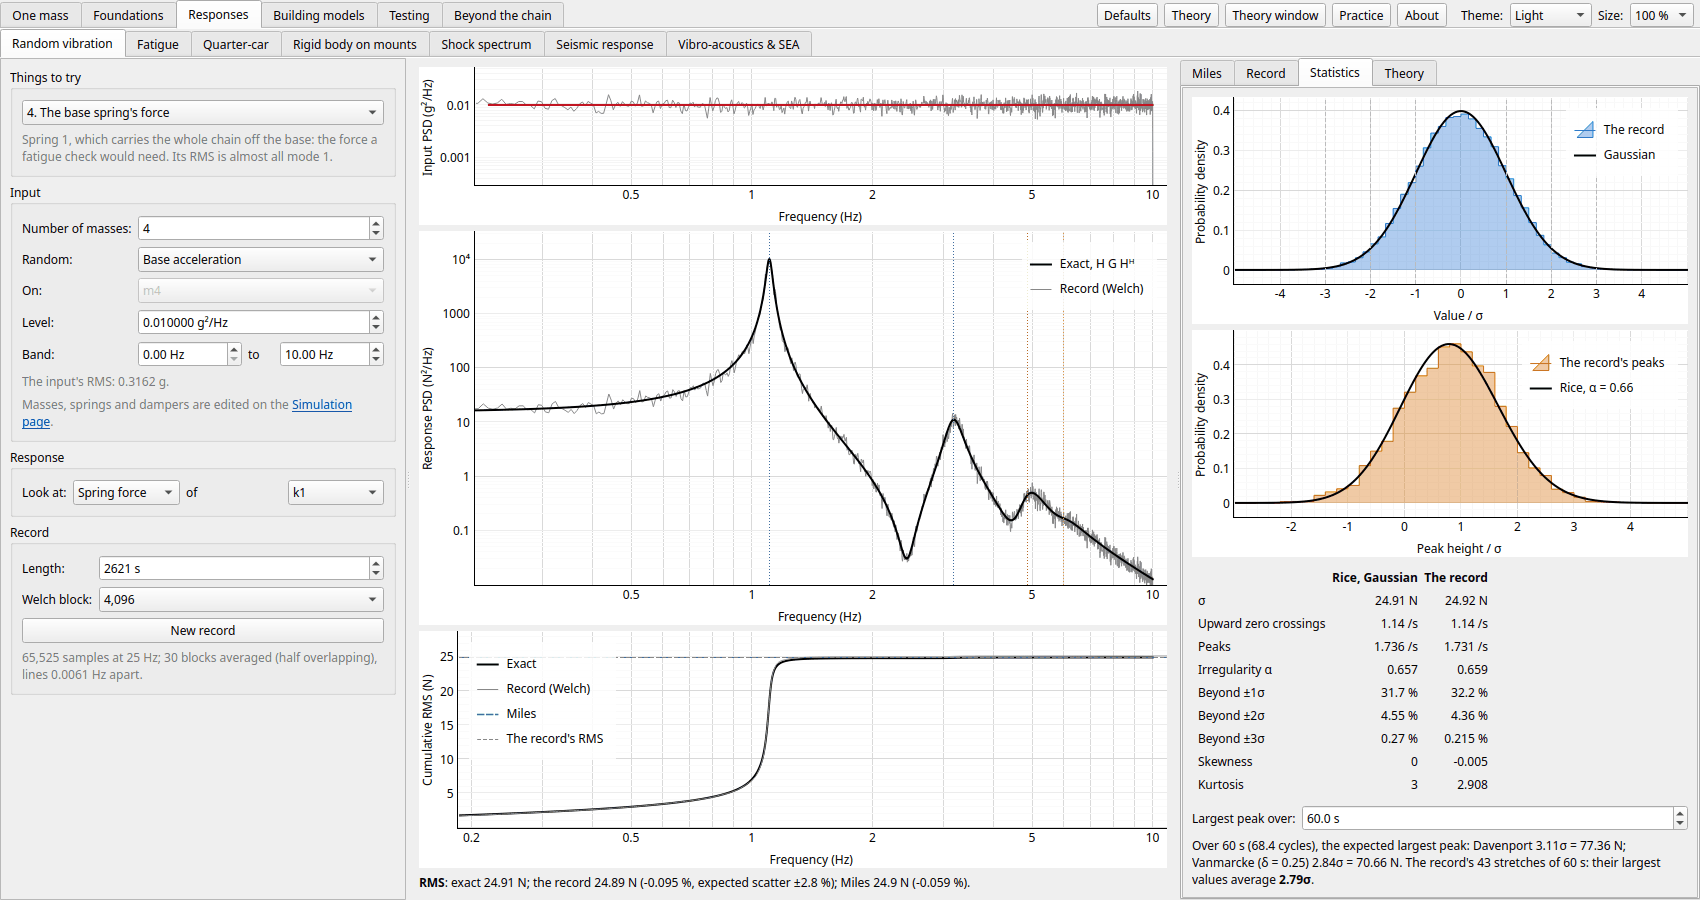
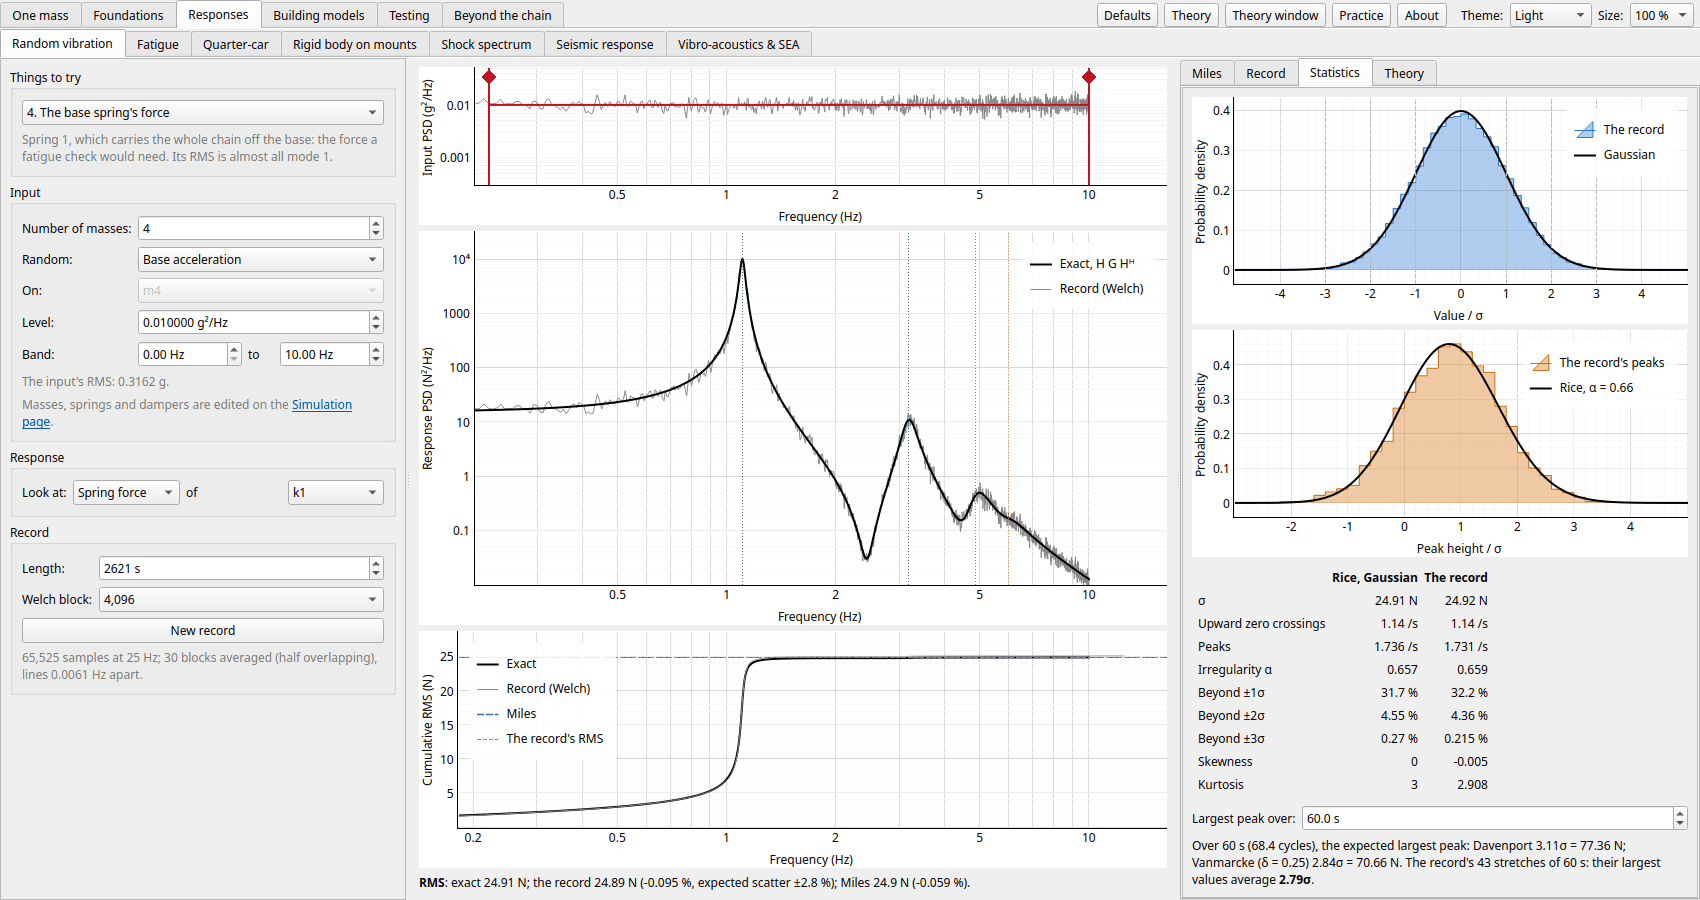
Drag the speed and the band: Torsional, Random vibration and Diagnostics (#316 B1)
- Torsional: the running speed is a DragLine on the interference diagram, on its linear or log
  scales (DragLine.set_scale). While it's held the band and the response follow; the diagram
  is redrawn (its criticals inside the band in red) when it's let go.
- Random vibration: the band's edges are DragLines on the Input PSD; the boxes and the band's
  line follow, and the record is made again on release (a redraw meanwhile waits). The plots
  run on 1.5x past the band's top, so the edge can be dragged out.
- Diagnostics: the shaft speed is a line on the run-up's maps and the order tracks; the record,
  spectrum and readout follow as it's dragged (~40 ms a step).

tests/test_drag.py's helper lifts pyqtgraph's mouse rate limit while it drags: its moves came
at once and were dropped, so a drag counted only if its first step cleared 5 px (it didn't on
a log axis). README shots of the two pages retaken.

diff --git a/tests/test_drag.py b/tests/test_drag.py
@@ -39,11 +39,20 @@ def drag(view: QtWidgets.QGraphicsView, start: QtCore.QPointF, end: QtCore.QPoin
         QtWidgets.QApplication.sendEvent(vp, ev)
         app.processEvents()
 
-    send(QtCore.QEvent.Type.MouseButtonPress, start, Left, Left)
-    for k in range(1, steps + 1):
-        f = k / steps
-        send(QtCore.QEvent.Type.MouseMove, start + (end - start) * f, NoButton, Left)
-    send(QtCore.QEvent.Type.MouseButtonRelease, end, Left, NoButton)
+    import pyqtgraph as pg
+
+    # pyqtgraph drops moves closer together than its rate limit: these come at once, and only the first (if it
+    # cleared the 5 px a drag needs) and the release would count. A hand's moves are spread out: let all through.
+    limit = pg.getConfigOption("mouseRateLimit")
+    pg.setConfigOption("mouseRateLimit", 0)
+    try:
+        send(QtCore.QEvent.Type.MouseButtonPress, start, Left, Left)
+        for k in range(1, steps + 1):
+            f = k / steps
+            send(QtCore.QEvent.Type.MouseMove, start + (end - start) * f, NoButton, Left)
+        send(QtCore.QEvent.Type.MouseButtonRelease, end, Left, NoButton)
+    finally:
+        pg.setConfigOption("mouseRateLimit", limit)
 
 
 def scene_at(plot, x: float, y: float) -> QtCore.QPointF:
@@ -320,3 +329,71 @@ def test_drawing_the_energy_methods_trial_shape_keeps_rayleigh_above_f1(main_win
     assert p.shape.currentText() != DRAWN
     p.load_setup({k: v for k, v in vars(state).items() if k not in ("name", "note")})
     assert p.shape.currentText() == DRAWN and np.allclose(p.drawn, state.drawn)
+
+
+@pytest.mark.parametrize("log", [False, True])
+def test_dragging_the_torsional_speed_line_sets_the_running_speed(main_window, app, log):
+    p = main_window.torsional_page
+    _show(main_window, p, app)
+    p.log_scales.setChecked(log)
+    app.processEvents()
+    line = p.speed_line
+    assert line.data_value() == pytest.approx(p.operating.value()) and line.getViewBox() is not None
+    lo, hi = p._interference_band.getRegion()  # the band drawn on the scale just switched to
+    edges = [10**v for v in (lo, hi)] if log else [lo, hi]
+    assert edges == pytest.approx([0.9 * p.operating.value(), 1.1 * p.operating.value()], rel=1e-6)
+    (_, _), (y0, y1) = p.interference.getPlotItem().getViewBox().viewRange()
+    y = 0.5 * (y0 + y1)
+    target = 2000.0
+    end = math.log10(target) if log else target
+    drag(p.interference, scene_at(p.interference, line.value(), y), scene_at(p.interference, end, y), app)
+    assert p.operating.value() == pytest.approx(target, rel=0.02)
+    lo, hi = p._interference_band.getRegion()
+    edges = [10**v for v in (lo, hi)] if log else [lo, hi]
+    assert edges == pytest.approx([0.9 * p.operating.value(), 1.1 * p.operating.value()], rel=1e-6)
+    assert line.getViewBox() is not None and line.data_value() == pytest.approx(p.operating.value())
+
+
+def test_dragging_the_random_band_edges_sets_the_band(main_window, app):
+    p = main_window.random_page
+    _show(main_window, p, app)
+    p.recompute()
+    app.processEvents()
+    lo_line, hi_line = p.band_lines
+    hi0 = p.f_hi.value()
+    assert hi_line.data_value() == pytest.approx(hi0) and hi_line.getViewBox() is not None
+    (_, _), (y0, y1) = p.input_plot.getPlotItem().getViewBox().viewRange()
+    y = 0.5 * (y0 + y1)
+    target = 0.5 * hi0
+    drag(p.input_plot, scene_at(p.input_plot, hi_line.value(), y), scene_at(p.input_plot, math.log10(target), y), app)
+    assert p.f_hi.value() == pytest.approx(target, rel=0.03)
+    p.worker.wait()
+    app.processEvents()
+    assert p.record.input.f_hi == p.f_hi.value()  # made again with the new band, once let go
+    assert hi_line.getViewBox() is not None and hi_line.data_value() == pytest.approx(p.f_hi.value())
+    # The bottom edge: the band from 0 starts where the plot does; dragged in, it starts there.
+    lo = 0.3 * p.f_hi.value()
+    drag(p.input_plot, scene_at(p.input_plot, lo_line.value(), y), scene_at(p.input_plot, math.log10(lo), y), app)
+    assert p.f_lo.value() == pytest.approx(lo, rel=0.03) and p.f_lo.value() < p.f_hi.value()
+    p.worker.wait()
+    assert p.record.input.f_lo == p.f_lo.value()
+
+
+@pytest.mark.parametrize("which", [0, 2])  # the frequency map (the Run-up tab) and the order tracks (Orders)
+def test_dragging_the_diagnostics_speed_line_sets_the_shaft_speed(main_window, app, which):
+    from vib_tutorial.gui.diagnostics import TAB_ORDERS, TAB_RUNUP
+
+    p = main_window.diagnostics_page
+    _show(main_window, p, app)
+    p.tabs.setCurrentIndex(TAB_RUNUP if which == 0 else TAB_ORDERS)
+    for _ in range(5):
+        app.processEvents()
+    plot = (p.freq_map, p.order_map_plot, p.orders_plot)[which]
+    line = p.speed_lines[which]
+    assert line.data_value() == pytest.approx(p.rpm.value())
+    (_, _), (y0, y1) = plot.getPlotItem().getViewBox().viewRange()
+    y = 0.5 * (y0 + y1)
+    drag(plot, scene_at(plot, line.value(), y), scene_at(plot, 3000.0, y), app)
+    assert p.rpm.value() == pytest.approx(3000.0, rel=0.02)
+    assert p.mesh_lines[0].value() == pytest.approx(p.machine.mesh_hz)  # the record at the new speed
+    assert all(other.data_value() == pytest.approx(p.rpm.value()) for other in p.speed_lines)

diff --git a/src/vib_tutorial/gui/random_vibration.py b/src/vib_tutorial/gui/random_vibration.py
@@ -53,6 +53,7 @@ from ..core.random_vibration import (
 )
 from . import maths, random_figures, weak
 from .axes import log_axes
+from .drag import DragLine
 from .layouts import ColumnScroll, form_layout, form_row, group, plot_height
 from .lesson import TrialCombo
 from .links import load_notes, page_link
@@ -87,6 +88,12 @@ TIPS = {
     "new": "<p>A new record: the same spectrum, other random numbers.</p>",
 }
 INPUT_TIP = "<p>The input's PSD: the level asked for (flat over the band), and the record's input by Welch.</p>"
+BAND_LINE_TIP = (
+    "<p>An edge of the input's band. Drag it to narrow or widen the band: the Band boxes follow, and the record is "
+    "made again when you let go. Drag the top past the modes to see the mass line, or in round one mode to see "
+    "Miles' equation overestimate.</p>"
+)
+BAND_ROOM = 1.5  # the plots run on past the band's top, by this factor, so its edge can be dragged out
 PSD_TIP = (
     "<p>The response's power spectral density: exact, G<sub>y</sub> = H G<sub>u</sub> H<sup>H</sup>, and the "
     "simulated record's by Welch's method. Each mode is a peak; the dotted lines mark them.</p>"
@@ -565,6 +572,14 @@ class RandomVibrationPage(QtWidgets.QWidget):
         self.input_plot.setLogMode(x=True, y=True)
         self.input_plot.setToolTip(INPUT_TIP)
         plot_height(self.input_plot, 110)
+        self.band_lines = (DragLine(BAND_LINE_TIP, log=True), DragLine(BAND_LINE_TIP, log=True))
+        self.band_lines[0].dragged.connect(self._on_lo_dragged)
+        self.band_lines[1].dragged.connect(self._on_hi_dragged)
+        for line in self.band_lines:
+            line.released.connect(self._on_band_released)
+        self._band_curve: pg.PlotDataItem | None = None
+        self._band_shown = (0.0, 0.0)  # where the band's line starts, and its level
+        self._held_redraw = False  # a result came in while an edge was held: drawn when it's let go
         self.psd_plot = _plot("Response PSD", None, "Frequency", "Hz")
         self.psd_plot.setLogMode(x=True, y=True)
         self.psd_plot.setToolTip(PSD_TIP)
@@ -811,6 +826,29 @@ class RandomVibrationPage(QtWidgets.QWidget):
         self._show_controls()
         self._schedule(measure=True)
 
+    def _on_lo_dragged(self, f: float) -> None:
+        self._drag_band(min(f, 0.9 * self.f_hi.value()), self.f_hi.value())
+
+    def _on_hi_dragged(self, f: float) -> None:
+        self._drag_band(self.f_lo.value(), max(f, 1.1 * self.f_lo.value(), self.f_hi.minimum()))
+
+    def _drag_band(self, lo: float, hi: float) -> None:
+        """The boxes and the band's line follow an edge while it's dragged; the record waits for the release (a
+        redraw now would take the line from under the pointer)."""
+        self._loading = True
+        self.f_lo.setValue(lo)
+        self.f_hi.setValue(hi)
+        self._loading = False
+        if self._band_curve is not None:  # from where it's drawn (the view's left end, for a band from 0)
+            start, level = self._band_shown
+            self._band_curve.setData([lo if lo > 0 else start, hi], [level, level])
+
+    def _on_band_released(self, _f: float) -> None:
+        if self._held_redraw:
+            self._held_redraw = False
+            self.redraw()
+        self._on_input()
+
     def _on_output(self, *_args) -> None:
         if self._loading:
             return
@@ -881,10 +919,15 @@ class RandomVibrationPage(QtWidgets.QWidget):
 
     # ------------------------------------------------------------- drawing
     def apply_theme(self) -> None:
+        for line in self.band_lines:
+            line.apply_theme()
         if self.prediction is not None and not self._dirty:  # a new chain while hidden: redrawn when it shows
             self.redraw()
 
     def redraw(self) -> None:
+        if any(line.moving for line in self.band_lines):
+            self._held_redraw = True
+            return
         assert self.record is not None and self.prediction is not None and self.result is not None, (
             "drawn after recompute"
         )
@@ -909,8 +952,12 @@ class RandomVibrationPage(QtWidgets.QWidget):
         p.setLabel("left", f"Input PSD ({PSD_UNITS[inp.kind]})")
         p.plot(fu, np.maximum(gu, 1e-300), pen=pg.mkPen(colors.grey, width=1))
         band = np.array([max(inp.f_lo, lo), inp.f_hi])
-        p.plot(band, np.full(2, inp.level), pen=pg.mkPen(colors.force, width=2))
-        p.setXRange(math.log10(lo), math.log10(hi), padding=0.02)
+        self._band_curve = p.plot(band, np.full(2, inp.level), pen=pg.mkPen(colors.force, width=2))
+        self._band_shown = (float(band[0]), inp.level)
+        for line, edge in zip(self.band_lines, band):
+            line.set_value(float(edge))
+            p.addItem(line)
+        p.setXRange(math.log10(lo), math.log10(BAND_ROOM * hi), padding=0.02)
         p.setYRange(math.log10(inp.level) - 1.5, math.log10(inp.level) + 0.7, padding=0.0)
 
         # the response

diff --git a/src/vib_tutorial/gui/torsional.py b/src/vib_tutorial/gui/torsional.py
@@ -54,6 +54,7 @@ from ..core.torsional_startup import (
     crossings,
 )
 from . import torsional_figures
+from .drag import DragLine
 from .frame_loop import FrameLoop
 from .layouts import ColumnScroll, FlowLayout, form_layout, form_row, group, plot_height
 from .lesson import RunButton, plot
@@ -330,6 +331,11 @@ INTERFERENCE_TIP = (
     "a standard asks to check). Where an order crosses a mode is a torsional critical speed; filled red "
     "inside the band round the running speed.</p>"
 )
+SPEED_LINE_TIP = (
+    "<p>The running speed. Drag it along the diagram to run the train faster or slower: the band of ±10 % "
+    "round it, the Running speed box and the response follow, and an order crossing a mode inside the band "
+    "turns red when you let go.</p>"
+)
 RESPONSE_TIP = (
     "<p>The steady dynamic torque in the chosen link (a mesh: its force times the near gear's base radius), "
     "the amplitude of each order on its own and their sum (the peak when they line up), against the motor's "
@@ -405,6 +411,11 @@ class TorsionalPage(QtWidgets.QWidget):
         self.interference = plot("Frequency", "Hz", "Motor speed", "rpm", log_ready=True)
         self.interference.setToolTip(INTERFERENCE_TIP)
         plot_height(self.interference, 220)
+        self.speed_line = DragLine(SPEED_LINE_TIP, bounds=(1.0, 3600.0))
+        self.speed_line.dragged.connect(self._on_speed_dragged)
+        self.speed_line.released.connect(self._on_speed_released)
+        self._dragging = False
+        self._interference_band: pg.LinearRegionItem | None = None
         self.readout = QtWidgets.QLabel()
         self.readout.setWordWrap(True)
         self.readout.setTextFormat(QtCore.Qt.TextFormat.RichText)
@@ -645,11 +656,24 @@ class TorsionalPage(QtWidgets.QWidget):
         if self._loading:
             return
         self._to_custom()
-        self.redraw()
+        if self._dragging:  # the diagram stays (redrawing it would drop the line from under the pointer)
+            self._place_band()
+            self._draw_response()
+        else:
+            self.redraw()
+
+    def _on_speed_dragged(self, rpm: float) -> None:
+        self._dragging = True
+        self.operating.setValue(rpm)
+
+    def _on_speed_released(self, _rpm: float) -> None:
+        self._dragging = False
+        self.redraw()  # the criticals in the band, red
 
     # ------------------------------------------------------------- start-up
     # ------------------------------------------------------------- drawing
     def apply_theme(self) -> None:
+        self.speed_line.apply_theme()
         self.redraw()
         self.startup_view.apply_theme()
 
@@ -669,6 +693,14 @@ class TorsionalPage(QtWidgets.QWidget):
         for line in band.lines:
             line.setPen(pg.mkPen(None))
         return band
+
+    def _place_band(self) -> None:
+        """The interference diagram's band round the running speed, where it is now."""
+        if self._interference_band is None:
+            return
+        log = self.speed_line.log
+        lo, hi = (math.log10(v) if log else v for v in self._band())
+        self._interference_band.setRegion((lo, hi))
 
     def _draw_interference(self) -> None:
         p = self.interference
@@ -693,18 +725,15 @@ class TorsionalPage(QtWidgets.QWidget):
             doesn't map itself (text, lines)."""
             return (math.log10(x), math.log10(y)) if log else (x, y)
 
-        lo, hi = self._band()
-        band = pg.LinearRegionItem((at(lo, 1)[0], at(hi, 1)[0]), movable=False, brush=pg.mkBrush(*colors.band_shade))
+        band = pg.LinearRegionItem((0.0, 1.0), movable=False, brush=pg.mkBrush(*colors.band_shade))
         for line in band.lines:
             line.setPen(pg.mkPen(None))
         p.addItem(band)
-        p.addItem(
-            pg.InfiniteLine(
-                at(self.operating.value(), 1)[0],
-                angle=90,
-                pen=pg.mkPen(colors.muted, width=1, style=QtCore.Qt.PenStyle.DashLine),
-            )
-        )
+        self._interference_band = band
+        self.speed_line.set_scale(log, (max(1.0, x_lo), top))  # first: the band reads its scale
+        self._place_band()
+        self.speed_line.set_value(self.operating.value())
+        p.addItem(self.speed_line)
         n_sources = len(sources(t))  # order_lines puts them first
         for j, (label, order) in enumerate(lines):
             own = j < n_sources
@@ -750,6 +779,7 @@ class TorsionalPage(QtWidgets.QWidget):
             text = pg.TextItem(f"Mode {j + 1}, {f:.4g} Hz", color=colors.strong, anchor=(0, 1))
             text.setPos(*at(max(x_lo, 1e-9), f))
             p.addItem(text)
+        lo, hi = self._band()
         inside = [c for c in crits if lo <= c.rpm <= hi]
         outside = [c for c in crits if not lo <= c.rpm <= hi and c.rpm >= x_lo]
         if outside:

diff --git a/src/vib_tutorial/gui/diagnostics.py b/src/vib_tutorial/gui/diagnostics.py
@@ -39,6 +39,7 @@ from ..core.diagnostics import (
 )
 from ..core.practice import Problem, Question, Requirement, at_least, at_most, kept, number, pick
 from . import diagnostics_figures, settle_plots
+from .drag import DragLine
 from .lesson import (
     Form,
     TrialBox,
@@ -448,6 +449,11 @@ SPECTRUM_TIP = (
     "<p>The amplitude spectrum (flat-top window, averaged): each tone reads its amplitude. Dotted: the "
     "mesh's harmonics.</p>"
 )
+SPEED_LINE_TIP = (
+    "<p>The shaft's speed now: the record in the centre is the machine running steadily at it. Drag it along the "
+    "run-up to run the machine there: the Shaft speed box, the spectrum and the readout follow, and the mesh's "
+    "lines move with it.</p>"
+)
 MAP_TIP = (
     "<p>The run-up's spectrum, each block's line against the speed then. Top: against frequency (the orders "
     "fan out). Bottom: against order, from the record resampled at equal angles (they stand still).</p>"
@@ -556,6 +562,9 @@ class DiagnosticsPage(QtWidgets.QWidget):
             self.map_bars.append(bar)
         self.mode_line = pg.InfiniteLine(angle=0)
         self.freq_map.addItem(self.mode_line)
+        self.speed_lines = [
+            DragLine(SPEED_LINE_TIP, bounds=(300.0, 6000.0), role="strong") for _ in range(3)
+        ]  # clear of the maps' red
         self.map_note = note_label()
 
         # --- right: order tracks
@@ -567,6 +576,10 @@ class DiagnosticsPage(QtWidgets.QWidget):
         for item in (*self.steady_items, *self.track_items):
             self.orders_plot.addItem(item)
         self.orders_note = note_label()
+        for p, line in zip((self.freq_map, self.order_map_plot, self.orders_plot), self.speed_lines):
+            p.addItem(line)
+            line.dragged.connect(self._on_speed_dragged)
+            line.released.connect(self._on_speed_released)
 
         # --- right: sidebands
         self.side_plot = plot("Amplitude", "m/s²", "Frequency", "Hz", log_y=True, height=230)
@@ -722,6 +735,13 @@ class DiagnosticsPage(QtWidgets.QWidget):
         nyquist = 0.45 * self.rec.fs
         return min(lo, nyquist - 100), min(max(hi, lo + 50), nyquist)
 
+    def _on_speed_dragged(self, rpm: float) -> None:
+        self.rpm.setValue(rpm)
+
+    def _on_speed_released(self, _rpm: float) -> None:
+        for line in self.speed_lines:
+            line.set_value(self.rpm.value())  # to the box's whole rpm
+
     def _on_run(self) -> None:
         self._draw_tab()
         settle_plots(self)
@@ -750,6 +770,8 @@ class DiagnosticsPage(QtWidgets.QWidget):
         self.env_spec.setPen(pg.mkPen(c.mass[0], width=1.2))
         mark(self.env_dots, c.force)
         self.cep_item.setPen(pg.mkPen(c.mass[0], width=1.2))
+        for line in self.speed_lines:
+            line.apply_theme()
         self.redraw()
 
     def redraw(self) -> None:
@@ -769,6 +791,9 @@ class DiagnosticsPage(QtWidgets.QWidget):
         self.spec_item.setData(spec.freqs[keep], np.maximum(spec.amplitude[keep], 1e-6))
         for h, line in enumerate(self.mesh_lines, start=1):
             line.setPos(h * m.mesh_hz)
+        for line in self.speed_lines:
+            if not line.moving:  # the one being dragged is already there
+                line.set_value(self.rpm.value())
         self.spec_plot.setXRange(0.0, TOP_HZ, padding=0)
         top = float(spec.amplitude[keep].max())
         self.spec_plot.setYRange(math.log10(top) - 3.5, math.log10(top) + 0.2, padding=0)

diff --git a/src/vib_tutorial/gui/drag.py b/src/vib_tutorial/gui/drag.py
@@ -65,6 +65,14 @@ class DragLine(pg.InfiniteLine):
         v = float(self.value())
         return 10.0**v if self.log else v
 
+    def set_scale(self, log: bool, bounds: tuple[float, float] | None = None) -> None:
+        """Follow the plot's axis to (or from) a log scale, keeping the value; `bounds` in data units."""
+        value = self.data_value()
+        self.log = log
+        if bounds is not None:
+            self.setBounds([self._to_view(b) for b in bounds])
+        self.set_value(value)
+
     def set_value(self, value: float) -> None:
         """Move the line without emitting `dragged` or `released`: the page's box or a trial set it."""
         if self.log and not value > 0:
